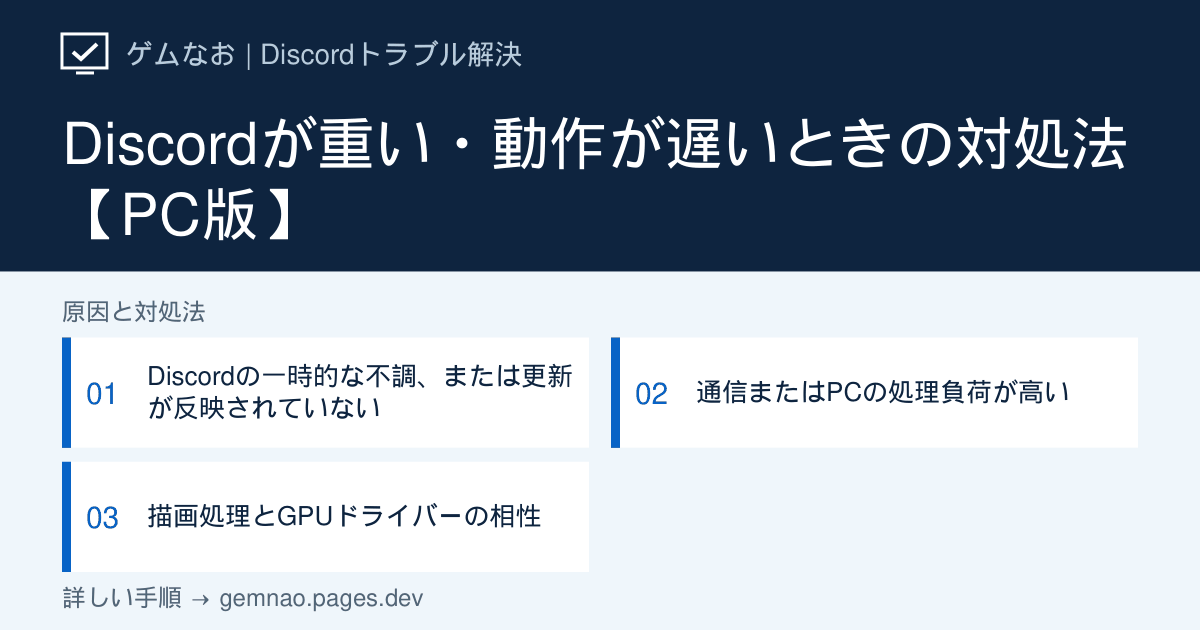
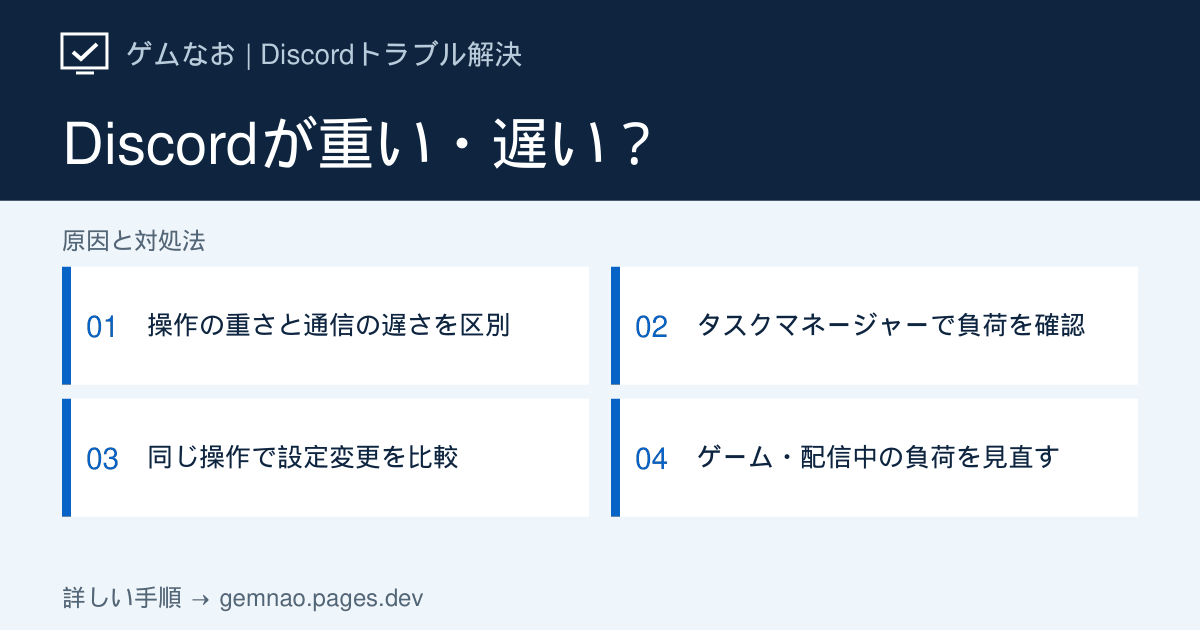
Rewrite Discord performance guide with workload diagnosis and repeatable comparisons

diff --git a/lib/discord-growth-articles.ts b/lib/discord-growth-articles.ts
@@ -31,78 +31,112 @@ export const discordGrowthArticles: DiscordArticle[] = [
   {
     slug: 'slow-performance',
     category: 'launch',
-    title: 'Discordが重い・動作が遅いときの対処法【PC版】',
+    title: 'Discordが重い・遅い時の直し方｜画面操作・通信・ゲーム中で切り分け',
     shortTitle: 'Discordが重い・遅い',
-    seoTitle: 'Discordが重い・動作が遅いときの対処法【PC版】',
-    metaDescription:
-      'Discordが重い、画面切り替えや通話が遅いときのPC向け対処法。再起動、通信と負荷の確認、ハードウェアアクセラレーションの切り分けを順に説明します。',
-    symptom:
-      'Discordの画面切り替えが遅い、入力が引っかかる、通話や配信中に動作が重くなる場合の切り分け手順です。障害や回線の問題と、PC・アプリ側の負荷を分けて確認します。',
-    target: 'Windows 11 / Windows 10版 Discordデスクトップアプリ',
-    conclusion:
-      'Discordを完全終了して最新版へ更新し、公式ステータスと通信状態を確認します。PC全体が重い場合は負荷の高いアプリを閉じ、Discordだけが重い場合はハードウェアアクセラレーションの切り替えを試します。',
+    seoTitle: 'Discordが重い・遅い原因と対処法【PC・ゲーム中】',
+    metaDescription: 'Discordの入力やスクロールが重い、送信が遅い、ゲーム中だけカクつく場合を判定表で切り分け。CPU・メモリ・GPU・ディスクの読み方、描画設定の場所、同じ操作での変更前後比較を解説します。',
+    symptom: 'Discordの文字入力・画面切り替えが引っかかる、メッセージの送信が遅い、ゲームや配信と同時に使うとPC全体が重くなる場合の確認手順です。',
+    target: 'Windows 11／10版Discordデスクトップアプリ。ブラウザ版との比較も掲載',
+    conclusion: 'まず「入力・スクロールが重い」「送受信が遅い」「ゲームや配信中だけ重い」を分けます。操作が重いならPC負荷と描画設定、送受信だけ遅いなら接続と障害情報、ゲーム中だけなら録画・配信などの併用を確認します。設定は1つずつ変え、同じ操作と使用率を変更前後で比べてください。',
     quickFixes: [
-      'Discordを完全終了し、PCを再起動して最新版のDiscordを開く',
-      'Discord Statusと通信状態を確認し、ダウンロードなど負荷の高い処理を止める',
-      'Discordのハードウェアアクセラレーションを切り替えて再起動する',
+      '文字入力・スクロール・送受信のうち、何が遅いかを分けて記録する',
+      'Ctrl＋Shift＋Escでタスクマネージャーを開き、重い瞬間の負荷と上位アプリを確認する',
+      '同じチャンネル・操作で設定を1つだけ変えて比較し、改善しなければ元へ戻す',
+    ],
+    diagnosisTitle: '何が遅い？ 操作・通信・ゲーム中の判定表',
+    diagnosisIntro: '「Discordが重い」という症状だけでは、回線かPCかは決まりません。文字が出るまで遅いのか、文字はすぐ出るが送信後に待たされるのかを区別します。',
+    showStatusCheck: false,
+    diagnosis: [
+      { symptom: '入力・スクロール・チャンネル切り替えが引っかかる', check: '他アプリも重いかとCPU・メモリなどの負荷を確認', causeIndex: 1 },
+      { symptom: 'PC全体が重く、ゲームやブラウザも遅い', check: '使用率が高い項目と上位アプリを確認し、不要な処理を1つ止めて比較', causeIndex: 2 },
+      { symptom: '操作は滑らかだがメッセージ送信・画像の読み込みだけ遅い', check: '障害情報、他サイト、ダウンロード停止前後を比較', causeIndex: 3 },
+      { symptom: 'GIFや絵文字の多い画面で特に重い', check: 'アニメーションと描画設定を別々に変更して同じ画面で比較', causeIndex: 4 },
+      { symptom: 'ゲーム・録画・配信と同時に使う時だけ重い', check: '併用機能を1つずつ止め、ゲーム中の負荷も照合', causeIndex: 5 },
+      { symptom: '配信映像だけカクカクする／声だけ途切れる', check: 'Discordの画面操作は正常か。配信・音声の専用記事へ分岐', causeIndex: 5 },
+      { symptom: 'ブラウザ版は軽いのにアプリだけ遅い', check: '完全終了・更新後にも同じ差が出るか確認', causeIndex: 6 },
     ],
     causes: [
       {
-        title: 'Discordの一時的な不調、または更新が反映されていない',
-        description:
-          '長時間起動したままのアプリや、バックグラウンドに残ったプロセスが動作を不安定にする場合があります。',
+        title: '同じ操作を決め、変更前の状態を記録する',
+        description: '比較する操作を決めておくと、「何となく軽い」ではなく改善した箇所が分かります。最初から設定をまとめて変えないでください。',
         actions: [
-          '通知領域のDiscordアイコンを右クリックし、Discordを終了する',
-          'タスクマネージャーでDiscordのプロセスが残っていないことを確認する',
-          'PCを再起動し、Discordを開いて更新が完了するまで待つ',
+          '同じテキストチャンネルで短い文を入力し、送信せず下書きの表示が遅れるか確認する。次に同じ範囲をスクロールし、引っかかりの有無を記録する',
+          'Ctrl＋Shift＋Esc→「プロセス」でCPU・メモリ・ディスクを確認する。GPU列がない場合は列見出しを右クリックし、表示項目からGPUを追加できるか確認する',
+          '列見出しをクリックして使用量の多い順に並べ、PC全体の使用率と上位のアプリ名を控える。「パフォーマンス」では各項目の時間変化も確認できる',
+          '重い操作を30秒ほど行い、普段の状態との差を見る。一瞬の最大値だけでなく、操作中に高い状態が続くかを記録する',
+          '変更後も同じチャンネル・操作・併用アプリで確認する。記録例は「入力が遅れる／CPU全体90％前後／録画停止後60％前後・入力改善」。数値は説明用の例で、正常・異常の固定基準ではない',
+        ],
+        note: 'Discordは複数プロセスで動くため、項目数が多いだけでは異常ではありません。CPU全体が低い場合も、特定の処理や一部のコアが制約になっている可能性までは否定できません。',
+      },
+      {
+        title: 'CPU・メモリ・GPU・ディスクの結果から次の操作を選ぶ',
+        description: '使用率の高さだけで部品の故障や買い替えを判断しません。重くなる時刻と一致するか、処理を減らすと改善するかを組み合わせます。',
+        actions: [
+          'CPUが高い状態で入力も遅いなら、録画・動画変換・不要なブラウザなど上位の処理を確認する。保存後、そのアプリを通常の終了操作で閉じて比較する',
+          'メモリの余裕が少なくアプリ切り替えも遅いなら、不要なタブやアプリを閉じる。使用量の低下と操作の改善が同時に起きるか確認する',
+          'GPUがゲーム中に高く、Discordの表示も重いなら、STEP 5で配信・録画・ゲーム側の負荷を減らして比較する。GPU使用率が高いだけで、Discordが原因とは判断しない',
+          'ディスクの使用率が高い状態で読み込みが遅いなら、更新・ダウンロード・同期などが動いていないか確認する。進行中のWindows更新を強制終了せず、完了後に同じ操作を試す',
+          '使用率が下がってもDiscordだけ重いならSTEP 4へ進む。改善する場合は、止めた処理との併用を減らす。身元の分からないWindowsプロセスやセキュリティ機能は終了しない',
+        ],
+        note: 'ディスク100％は容量が満杯という意味ではなく、その時の処理の忙しさを示す指標です。メモリ使用量やGPUの値も、単独で「この値なら必ず重い」とは言えません。',
+      },
+      {
+        title: '送受信だけ遅い：障害・接続・通信中の処理を比較する',
+        description: '文字入力は滑らかなのに送信や画像表示で待たされる場合は、描画設定より通信側を先に確認します。',
+        actions: [
+          'Discord Statusで発生時刻に障害があるか確認する。障害が発表されているなら設定を変えず、復旧後に再確認する',
+          '同じPCで別のサイトを開き、そちらも遅いか確認する。大容量ダウンロードやクラウド同期を利用中なら、自分で一時停止できる処理を1つ止めて比較する',
+          'Wi-Fiではルーターに近い場所、可能なら有線接続で同じ送受信を比較する。別回線を使える場合は通信量に注意して短時間だけ試す',
+          '同じPCでdiscord.com/appを開き、同じチャンネルの読み込みを比較する。両方が遅くても回線原因とは確定せず、PC全体の負荷も照合する',
+          '回線を変えた時だけ改善するなら接続環境を優先して調べる。別回線でもDiscordだけ遅いなら、時刻・アプリとブラウザの結果を残し、継続時はサポートへ伝える',
+        ],
+        note: 'タスクマネージャーのネットワーク欄は通信量を見るもので、通話の遅延やパケット損失を直接測るものではありません。回線速度が速いだけで通話品質が正常とも判断できません。',
+      },
+      {
+        title: 'Discordの画面だけ重い：アニメーションと描画設定を比較する',
+        description: 'GIFや動画が多い画面で重い場合、表示内容をそろえて比較します。ハードウェアアクセラレーションは描画にGPUを使う機能で、オフが全環境の正解とは限りません。',
+        actions: [
+          'Discord左下の歯車→「アクセシビリティ」で、Discordにフォーカスがある時のGIF自動再生をオフにする。同じ画面をスクロールし、変化があるか確認する',
+          '次にアニメーション絵文字の再生をオフにして比較する。改善しない設定は、好みに合わせて元へ戻す。項目名は言語やバージョンで異なることがある',
+          '改善しない場合は「詳細設定」のハードウェアアクセラレーションの状態を控え、オンならオフ、オフならオンへ変更してDiscordを再起動する',
+          'STEP 1の同じ入力・スクロールを試し、操作感とCPU・GPUの負荷を比較する。GPU使用率だけ下がっても入力が遅くなったなら、改善とは扱わない',
+          '悪化または変化なしなら元へ戻す。表示の乱れやGPUドライバー更新後からの不調もある場合は、メーカーの公式ドライバー案内を確認し、変更を1つずつ行う',
         ],
       },
       {
-        title: '通信またはPCの処理負荷が高い',
-        description:
-          'ゲーム、配信、ダウンロードを同時に行うと、回線やCPU・メモリ・GPUの不足でDiscordも遅くなることがあります。',
+        title: 'ゲーム・配信中だけ重い：同時に使う機能を減らして比較する',
+        description: 'Discordの操作が重いのか、配信映像だけが止まるのかで確認先が異なります。配信の場合は、誰の画面で問題が起きるかも記録します。',
         actions: [
-          'Discord Statusで障害が発生していないか確認する',
-          '大容量ダウンロード、録画、不要なブラウザタブを一時的に閉じる',
-          'タスクマネージャーでCPU、メモリ、GPU、ネットワークの使用率を確認する',
-          'Wi-Fiの場合はルーターに近づくか、有線接続で改善するか確認する',
+          '同じゲームの同じ場面で、Discordの文字入力も遅れるか確認する。まず録画だけ、次に配信だけを止め、どちらで改善するかを比べる',
+          'ゲームのGPU負荷が高い場合は、ゲーム内の映像・グラフィック設定でFPS上限を下げて比較する。例えば144fpsから60fpsへの変更は比較用の例であり、全員への推奨値ではない。元の値を控え、ゲームの滑らかさとDiscordの操作を両方確認する',
+          '配信中は配信画面の「…」→配信品質から、選べる解像度・フレームレートを下げる。720p・30fpsなどで試し、配信者のゲーム画面と視聴者の受信映像を別々に確認する',
+          '配信者の操作は正常で視聴者の映像だけカクつくなら「Discord配信がカクカクする」へ。声だけ途切れるなら「音声・マイクが途切れる」へ進む',
+          'オーバーレイ利用中だけ操作が重い場合は「ゲームオーバーレイ」で無効にして同じ場面を比較する。変化がなければ元へ戻す',
         ],
-        note: 'Discord全体の障害中は、設定変更や再インストールをせず復旧を待ってください。',
       },
       {
-        title: '描画処理とGPUドライバーの相性',
-        description:
-          '画面のスクロールや動画表示だけが重い場合は、ハードウェアアクセラレーションの切り分けが役立ちます。',
+        title: 'アプリだけ重い場合：完全終了・更新後に再確認する',
+        description: 'ブラウザ版と比較する時は、通話や配信を同時に二重起動しないようにします。長時間使った後だけ重い場合は、起動直後との差も確認します。',
         actions: [
-          'ユーザー設定の「詳細設定」を開く',
-          'ハードウェアアクセラレーションを現在と反対の状態へ切り替える',
-          'Discordを再起動して動作を比較する',
-          '改善しない場合は元の設定に戻し、GPUドライバーをメーカー公式手順で更新する',
+          '通知領域のDiscordアイコンを右クリックして終了し、タスクマネージャーに残るDiscordも終了する。開き直して更新があれば完了を待つ',
+          '起動直後にSTEP 1の操作を試し、普段重くなる程度の時間を使った後にも同じ比較をする。短時間だけ正常なら、その結果と利用時間を分けて記録する',
+          'アプリを閉じてから最新のEdgeやChromeでdiscord.com/appを開き、同じチャンネルの入力とスクロールを確認する。ブラウザも重ければ、負荷や接続の確認へ戻る',
+          'アプリだけ重い状態が続くなら、関連記事「Discordが起動しない」のキャッシュ退避手順を使って比較する。再インストールはその後にし、メール・パスワード・二要素認証を確認してから行う',
         ],
       },
     ],
-    ifNotFixed:
-      'ブラウザ版Discordでは軽いか確認してください。ブラウザ版だけ正常ならデスクトップアプリ側、両方で重いなら通信やDiscord側の障害の可能性があります。公式手順後も続く場合は、発生時刻、PC構成、使用率、再現手順を添えてDiscordサポートへ報告してください。',
+    ifNotFixed: '問い合わせには「何が遅いか／発生時刻／起動直後か長時間後か／Windows・Discordのバージョン／重い時のCPU・メモリ・GPU・ディスク／同時に動くアプリ／ブラウザ版と別回線の結果／変更した設定」をまとめます。「全体的に重い」より、「ゲームと録画を併用すると入力が遅れ、録画停止で改善」のように操作と結果を組にすると伝わります。画面の画像にはDMやアカウント情報を映さないでください。',
     faqs: [
-      {
-        question: 'ハードウェアアクセラレーションはオフにした方がよいですか？',
-        answer:
-          '常にオフが正解ではありません。GPUやドライバーとの組み合わせで結果が変わるため、切り替え前後を比較し、改善しなければ元に戻してください。',
-      },
-      {
-        question: 'ゲーム中だけDiscordが重くなるのはなぜですか？',
-        answer:
-          'ゲームがCPU、メモリ、GPU、回線を多く使い、Discordに回る余裕が不足している可能性があります。録画や配信を止め、タスクマネージャーで負荷を確認してください。',
-      },
-      {
-        question: '再インストールを最初に試すべきですか？',
-        answer:
-          '先に完全終了、障害確認、PC負荷と描画設定を確認してください。再インストールはアプリ側だけに問題が残る場合の後段の手順です。',
-      },
+      { question: 'CPUやメモリが何％なら異常ですか？', answer: '固定の数値だけでは決まりません。重い操作と同時に高い状態が続くか、不要な処理を減らすと使用率と操作の両方が改善するかで判断します。' },
+      { question: 'ハードウェアアクセラレーションはオフにすべき？', answer: '公式の対処候補ですが、環境によってCPU側の負荷が増えて逆に重くなる場合もあります。現在の設定を控え、同じ画面で比較して改善しなければ戻してください。' },
+      { question: '回線速度は速いのにDiscordが重いのはなぜ？', answer: '画面操作の重さはPCの負荷や描画処理でも起きます。通信についても速度だけでは遅延や不安定さまで分かりません。入力の遅さと送受信の待ち時間を分けて確認してください。' },
+      { question: 'Discordのメモリを減らせば必ず軽くなりますか？', answer: '使用量が減ったことと操作が改善したことは別です。同じ操作の反応も確認し、数値だけを下げるためにシステムの処理を無理に終了しないでください。' },
     ],
-    sources: [generalTroubleshooting, voiceVideoGuide, status],
-    related: ['loading-stuck', 'crashing', 'screen-share-not-working'],
-    checkedAt: '2026-09-19',
+    sources: [official('213491697-What-are-the-OS-system-requirements-for-Discord', '動作要件・Discordの遅延への対処（英語）'), generalTroubleshooting, official('225733808-Why-does-Discord-have-multiple-processes', 'Discordの複数プロセスについて（英語）'), { label: 'Microsoftサポート：WindowsでPCのパフォーマンスを向上させるためのヒント', url: 'https://support.microsoft.com/ja-jp/windows/experience/performance-optimization/tips-to-improve-pc-performance-in-windows' }, status],
+    related: ['stream-stuttering', 'voice-cutting-out', 'not-opening', 'crashing', 'overlay-not-showing'],
+    ogTitle: 'Discordが重い・遅い？',
+    ogSteps: ['操作の重さと通信の遅さを区別', 'タスクマネージャーで負荷を確認', '同じ操作で設定変更を比較', 'ゲーム・配信中の負荷を見直す'],
+    checkedAt: '2026-09-28',
     status: 'verified',
   },
   {

diff --git a/lib/og-image-manifest.ts b/lib/og-image-manifest.ts
@@ -27,7 +27,7 @@ export const ogImageManifest: Record<string, string> = {
   "/discord/phone-verification-error": "7266d12e",
   "/discord/screen-share-black-screen": "27a28c0d",
   "/discord/screen-share-not-working": "950ea3dc",
-  "/discord/slow-performance": "b69eb26c",
+  "/discord/slow-performance": "bd25d9b2",
   "/discord/stream-no-audio": "bfb2ee4d",
   "/discord/system-helper": "7455f630",
   "/discord/update-failed": "45c152bc",
